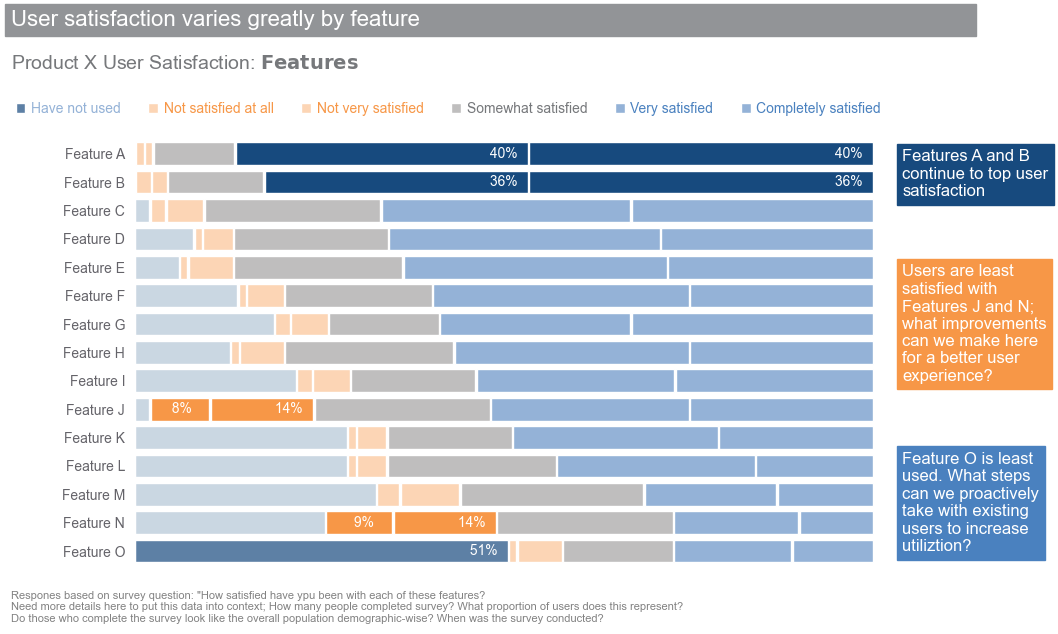
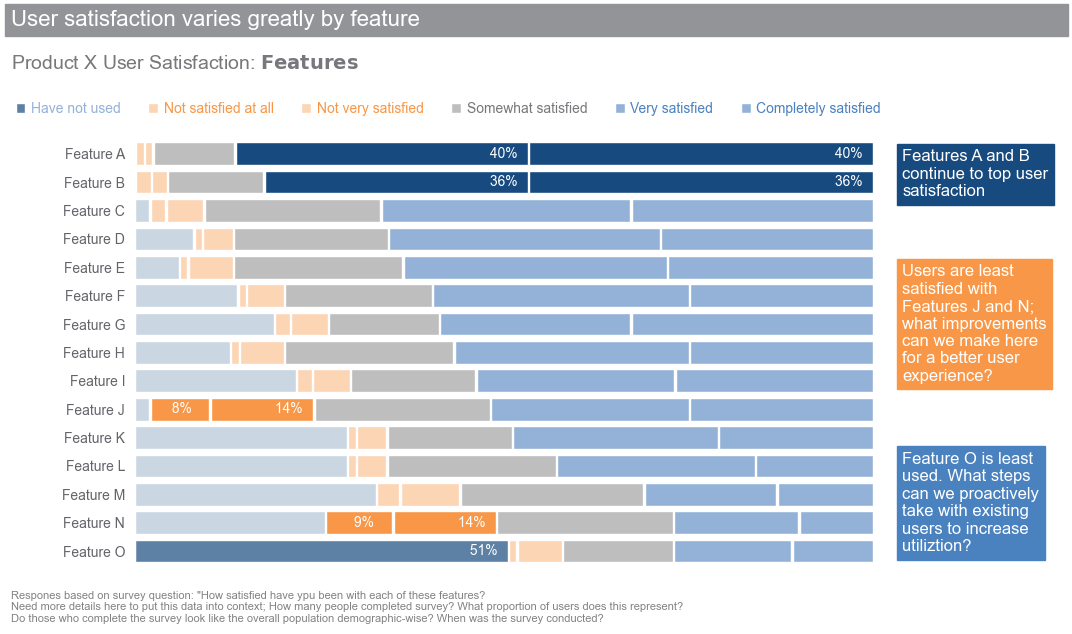
update

diff --git a/code/hbar_plot_3.py b/code/hbar_plot_3.py
@@ -82,7 +82,7 @@ ax.bar_label(ax6, labels=[f"{val: .0%}" if ix in [13, 14] else f"" for ix, val i
 ax.legend(loc='upper left', bbox_to_anchor=(-0.17, 1.07), ncol=6, frameon=False, handlelength=0.7, handletextpad=0.4, labelcolor=[BLUE3, ORANGE1, ORANGE1, GRAY5, BLUE2, BLUE2])
 
 # Annotations
-ax.text(-0.17, 18.5, 'User satisfaction varies greatly by feature' + ' '*90, fontsize=16,backgroundcolor=GRAY7,color=WHITE1)
+ax.text(-0.17, 18.5, 'User satisfaction varies greatly by feature' + ' '*105, fontsize=16,backgroundcolor=GRAY7,color=WHITE1)
 ax.text(-0.17, 17, 'Product X User Satisfaction: ' r"$\bf{Features}$" , fontsize=14, color=GRAY5)
 caption = 'Respones based on survey question: "How satisfied have ypu been with each of these features?\n'+ 'Need more details here to put this data into context; How many people completed survey? What proportion of users does this represent?\n' + 'Do those who complete the survey look like the overall population demographic-wise? When was the survey conducted?'
 ax.text(-0.17, -2.5, caption , fontsize=8, color=GRAY6)
